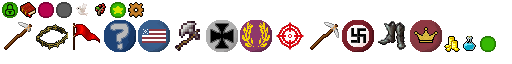
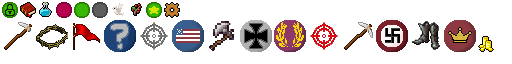
RangedUnit: Implement missing untarget action sprite

Changed region(s): [[0.25, 0.3125, 0.9688, 0.8125], [0.0625, 0.0312, 0.375, 0.2812]]

diff --git a/core/src/main/java/me/rhin/openciv/game/unit/RangedUnit.java b/core/src/main/java/me/rhin/openciv/game/unit/RangedUnit.java
@@ -242,8 +242,7 @@ public abstract class RangedUnit extends Unit
 
 		@Override
 		public TextureEnum getSprite() {
-			// TODO Auto-generated method stub
-			return null;
+			return TextureEnum.ICON_UNTARGET;
 		}
 	}
 

diff --git a/core/src/main/java/me/rhin/openciv/asset/TextureEnum.java b/core/src/main/java/me/rhin/openciv/asset/TextureEnum.java
@@ -83,6 +83,7 @@ public enum TextureEnum {
 	ICON_FARM,
 	ICON_MOVE,
 	ICON_TARGET,
+	ICON_UNTARGET,
 	ICON_CHOP,
 	ICON_PASTURE,
 	BUILDING_LIBRARY,
